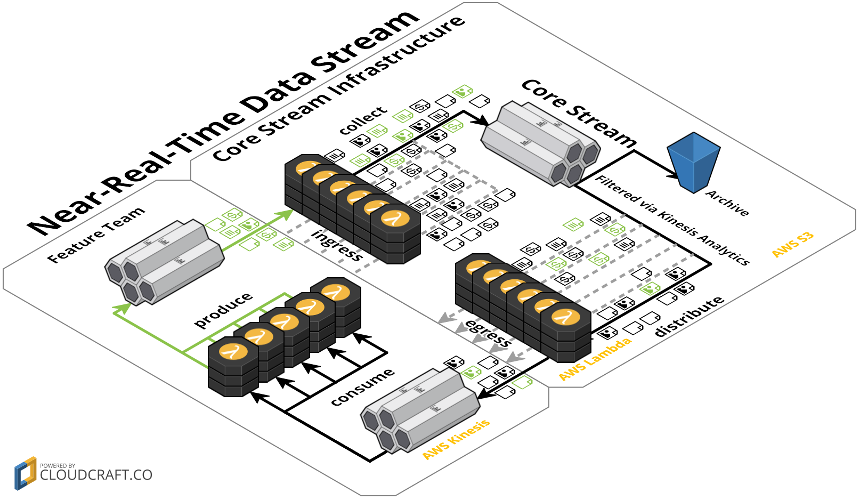
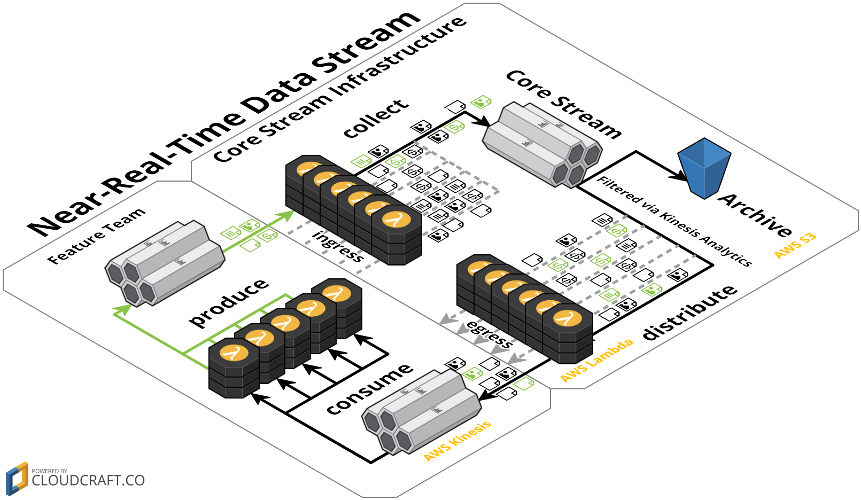
improve image
1. clean the "events" away from the labels
2. enlarge the labels

diff --git a/retail-stream/README.md b/retail-stream/README.md
@@ -10,7 +10,7 @@ System Diagram:
 <img
   src="cloudcraft-hello-retail.png"
   alt="System Diagram depicting the produce, collect, distribute, consume pattern"
-  style="width:860px;height:500px"
+  style="width:861px;height:500px"
  />
 
 Reference:  
